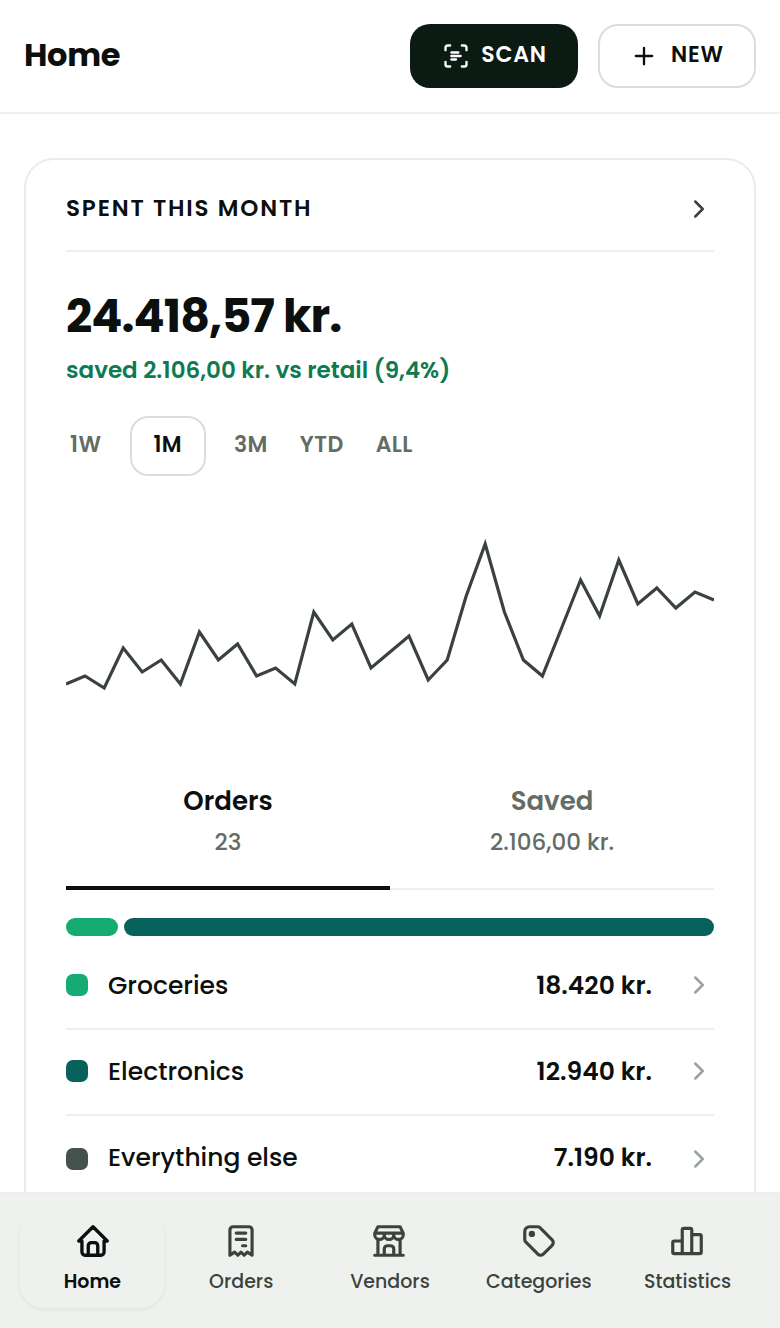
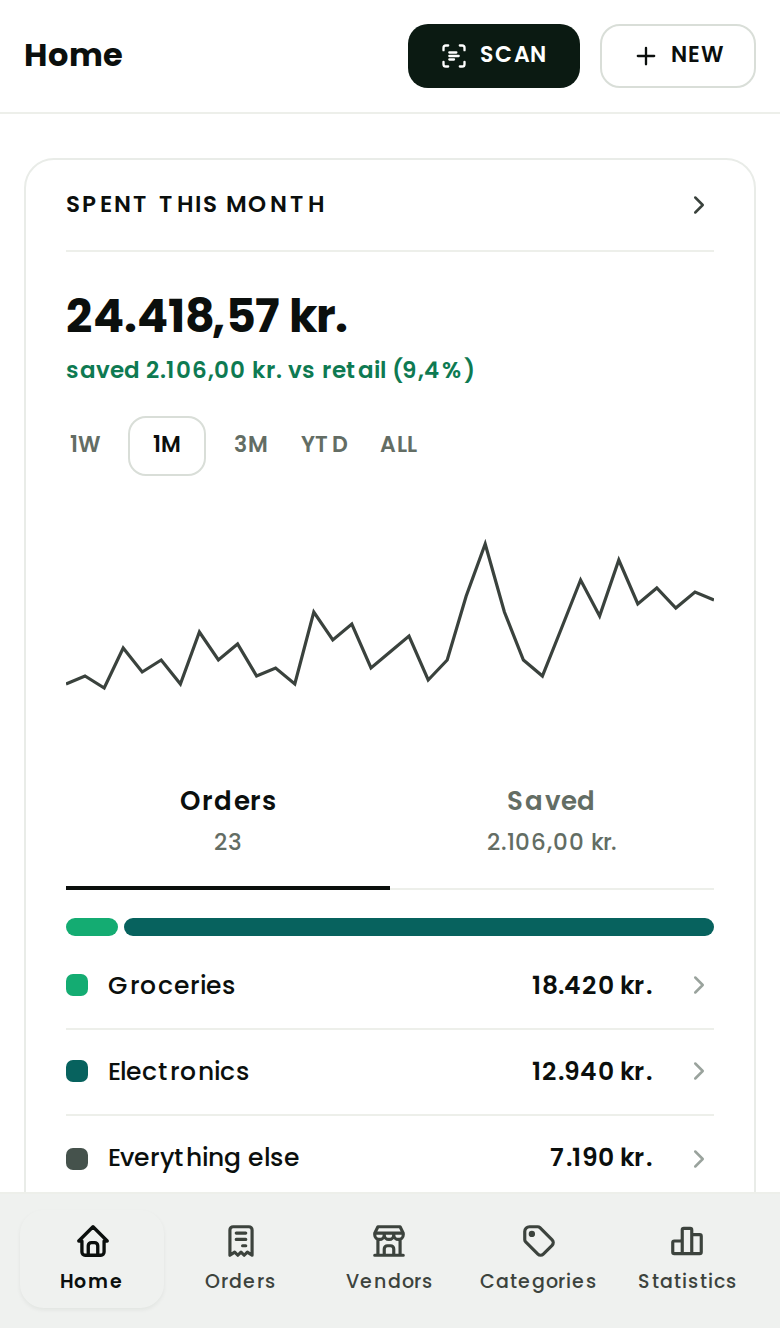
Even the card header's padding, so the lit block is even around the label
.card-header was padding:16px 20px 12px -- more air above the label than
between it and the divider below it. Five headers navigate and light up on
hover, and that padding is the band they paint: the label's ink measured
20px below the block's top edge and 16px above its bottom, on every one of
them.

14px 20px keeps the 28px total, so no header changes height and nothing
below one reflows. Walk of 14 states at both widths, 51,768 element
records: 2,172 fields, and they are 1,008 padding-top, 1,008
padding-bottom and 156 labels rising 2px. No height, no width, no other
property. Ink is 18/18 on all five now -- 17.75/18.25 on two, which is
where different letterforms land at deviceScaleFactor 4 -- and the walk of
every element a :hover rule paints reports no off-centre box left in the
file.

The three docs/ shots are regenerated, since every card header carries the
2px: 11,149 pixels on home, 4,829 on all-orders, 2,533 on phone, each one
a label band. They were re-rendered in a container whose Chromium
rasterises text differently from whatever produced the previous shots, so
the committed images change by 86,608, 90,438 and 35,183 pixels -- the
2px edit plus that difference, which measured 83,630, 89,367 and 34,283 on
an untouched file. All three now re-render byte-identical from this file.
CLAUDE.md carries the lesson: docs/ is not a baseline unless your machine
reproduces it.

Claude-Session: https://claude.ai/code/session_011y7PibxGWGsV2iBHQJuRZK

diff --git a/spendly.html b/spendly.html
@@ -237,7 +237,11 @@ svg.icon { width:18px; height:18px; stroke:currentColor; fill:none; stroke-width
 .card.card-kpi { padding:16px 18px; display:grid; gap:2px; }
 .card.card-question { padding:18px; }
 .card.card-ai { background:linear-gradient(160deg, var(--bg-dark-lift), var(--bg-dark) 55%); border:0; padding:18px; color:#fff; }
-.card-header { display:flex; align-items:center; justify-content:space-between; gap:12px; padding:16px 20px 12px; }
+/* Even padding because five of these headers light up on hover and the padding is the
+   band: 16/12 measured 20px of band above the label's ink and 16px below it. The 28px
+   total is unchanged, so the header keeps its height and nothing below it reflows --
+   the label rises 2px and the lit block is even around it. S13. */
+.card-header { display:flex; align-items:center; justify-content:space-between; gap:12px; padding:14px 20px; }
 .card-header .section-label { font-size:11.5px; font-weight:600; letter-spacing:.08em; text-transform:uppercase; color:var(--text); }
 /* Base specs, so a component used outside a blessed container still has a rule
    that reaches it. Without these .section-label and .card-caption were styled

diff --git a/README.md b/README.md
@@ -725,6 +725,12 @@ instance below shipped because a shape was copied from the reference without ask
   and leave its padding alone, which is the same idea one property over. Audit this by walking every
   element a `:hover` rule paints and comparing `padding-top` to `padding-bottom`; count the border
   only where it is transparent, since an opaque one paints over the tint it would otherwise offset.
+- **A header that lights up is a band too.** `.card-header` was `16px 20px 12px` — more air above the
+  label than between it and the divider under it, which is defensible spacing right up until the five
+  headers that navigate paint it: the label's ink measured 20px below the lit band's top edge and 16px
+  above its bottom. Even padding, `14px 20px`, keeps the same 28px total, so no header changes height
+  and nothing reflows — the label rises 2px and the block is even around it. Spacing tuned for a
+  resting state is a claim about a lit one wherever a hover rule paints a background.
 - **A row's hover tint bleeds 10px past the body gutter; the row's content does not.** The card body's
   20px padding is right for text and too tight for a highlight -- the tint stopped hard against the
   first glyph and the chevron at both ends. The header above already lights up edge to edge, so this

diff --git a/CLAUDE.md b/CLAUDE.md
@@ -149,6 +149,16 @@ rules key off, and a plain narrow viewport does not match it — the shot would 
 renders. Regenerate whatever a change moves: a stale screenshot is a wrong claim about the product,
 and it is the one claim a reader believes without checking.
 
+**`docs/` is not a baseline unless your machine reproduces it.** The tab conversion was accepted on 0
+differing pixels against these shots; the same comparison run in a container came back 83,630 of
+5,184,000 on a file that had not been touched — every one a glyph edge, boxes and icons identical,
+because a different Chromium build rasterises text and resolves advances differently. That floor
+swallows the change under test: a 4,829-pixel edit to `all-orders.png` arrives inside a 89,367-pixel
+disagreement. Diff your own before and after renders, which are deterministic to the pixel on one
+machine, and check `docs/` only for the states and the sizes. When a change does move a shot, say
+where it was regenerated — a shot re-rendered elsewhere carries that machine's text with it, so the
+committed image changes far more than the edit did.
+
 ## Uniformity
 
 Before adding a variant, grep for the pattern and match the tally, not the one neighbour in view. The
